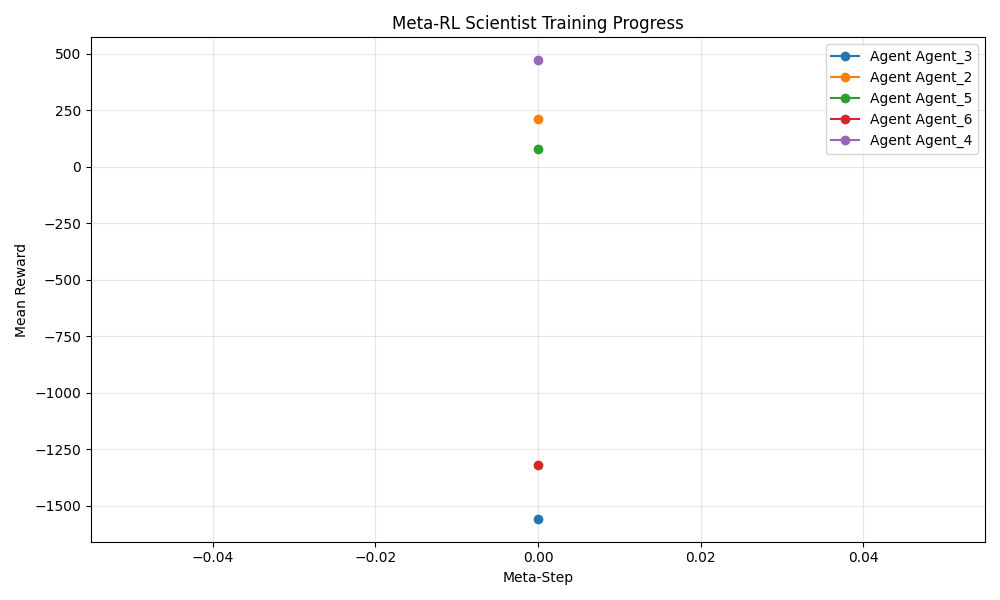
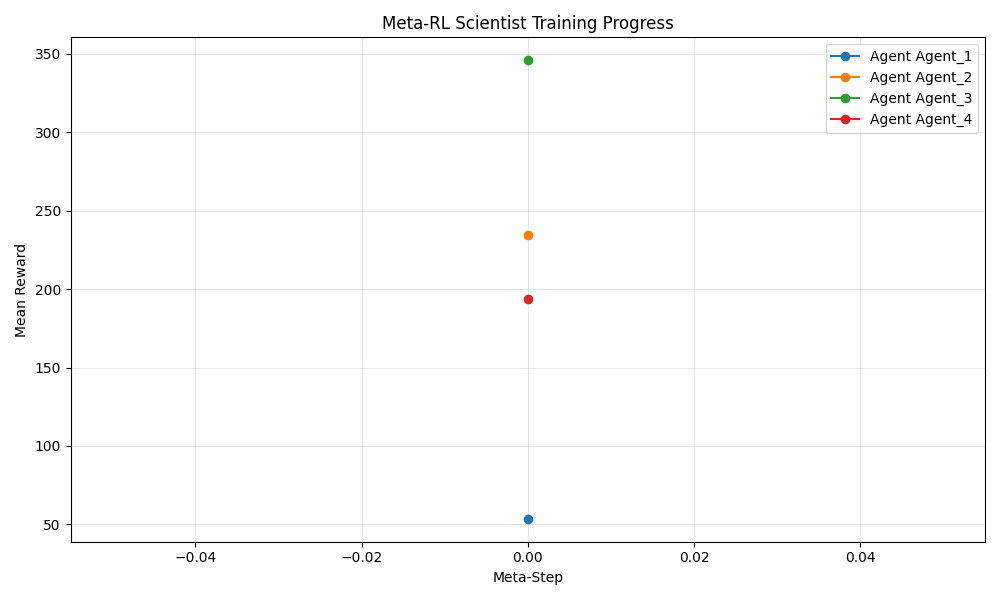
Competitive Swarm Intelligence

diff --git a/marl_scientist/main.py b/marl_scientist/main.py
@@ -78,6 +78,10 @@ def main():
     start_time = time.time()
     last_vision_time = time.time()
     
+    # [NEW] Competitive Dynamics
+    population_reward_history = [] 
+    reward_window = 20 # Mean over last 20 experiments
+    
     try:
         log.info("Starting Event Loop...")
         
@@ -92,8 +96,19 @@ def main():
                     log.info(f"[Event] Experiment completed for {aid}. Reward: {res.final_mean_reward:.1f}")
                     
                     if res:
+                        # [NEW] Relative Scaling Logic
+                        population_reward_history.append(rewards[aid])
+                        if len(population_reward_history) > reward_window:
+                            population_reward_history.pop(0)
+                        
+                        pop_mean = sum(population_reward_history) / len(population_reward_history)
+                        relative_reward = rewards[aid] - pop_mean
+                        
+                        log.info(f"  - Meta-Reward: {rewards[aid]:.2f} (Rel: {relative_reward:+.2f})")
+                        
                         # Update Agent
                         if aid in agents:
+                            # We update with RELATIVE reward to drive competition
                             agents[aid].update_knowledge(res)
                             monitor.check_safety(res)
                             
@@ -103,6 +118,17 @@ def main():
                     # Mark Free
                     agent_status[aid] = "IDLE"
                     global_completions += 1
+                    
+                    # [NEW] Weight Harvesting Trigger
+                    if global_completions % 5 == 0 and len(agents) > 1:
+                        # Find Global Best Agent (by recent mean)
+                        best_aid = max(agents.keys(), key=lambda x: history.get(x, [-float('inf')])[-1])
+                        # Find Worst Agent
+                        worst_aid = min(agents.keys(), key=lambda x: history.get(x, [float('inf')])[-1])
+                        
+                        if best_aid != worst_aid:
+                            log.info(f"[Competitive] {worst_aid} is harvesting insights from {best_aid}...")
+                            agents[worst_aid].harvest_weights(agents[best_aid].brain, tau=0.1)
                 
                 # Update Dashboard immediately on new data
                 export_dashboard_data(list(agents.values()), global_completions)
@@ -128,17 +154,42 @@ def main():
                 log.info(f"[Scaling] All agents busy ({busy_count}/{max_workers}). Expansion triggered!")
                 spawn_agent(total_agents + 1)
                 
-            # D. Job Submission
+            # C. Organic Scaling Logic
+            # ... (Scaling logic stays same, checking available slots)
+            
+            # [NEW] Priority Scheduling Logic
+            # We only submit if Lab has slots
+            busy_count = sum(1 for s in agent_status.values() if s == "BUSY")
+            max_workers = lab.executor._max_workers
+            
+            # 1. Collect Proposals from IDLE agents into a priority buffer
+            proposal_buffer = [] # (priority, aid, config)
             for aid, agent in agents.items():
                 if agent_status[aid] == "IDLE":
-                    # Propose
+                    # Priority = -RecentMeanReward (higher reward -> lower priority value -> schedules first)
+                    recent_perf = history.get(aid, [0.0])[-1]
+                    priority = -recent_perf 
+                    
                     obs = lab.get_observation()
                     config = agent.propose_experiment(obs)
-                    
-                    log.info(f"[Dispatch] {aid} -> {config.env_id} ({config.algorithm}) for 30k steps")
+                    proposal_buffer.append((priority, aid, config))
+                    agent_status[aid] = "QUEUED" # Intermediate state
+            
+            # Sort buffer by priority
+            proposal_buffer.sort(key=lambda x: x[0])
+            
+            # 2. Dispatch from buffer to Lab as long as slots are open
+            for _, aid, config in proposal_buffer:
+                if busy_count < max_workers:
+                    log.info(f"[Dispatch] {aid} (Prio: {-priority:.1f}) -> {config.env_id} for 30k steps")
                     lab.submit_experiment(aid, config)
-                    
                     agent_status[aid] = "BUSY"
+                    busy_count += 1
+                else:
+                    # Put back to IDLE so we can re-evaluate priority next tick
+                    agent_status[aid] = "IDLE"
+            
+            # ... (Periodic Vision Analysis logic stays same)
             
             # E. Periodic Vision Analysis (every 60s)
             if time.time() - last_vision_time > 60:

diff --git a/marl_scientist/agents/neural_researcher.py b/marl_scientist/agents/neural_researcher.py
@@ -186,6 +186,18 @@ class NeuralResearcherAgent(Researcher):
             paper = self.knowledge_store.synthesize_new_paper(result, self.agent_id)
             self.knowledge_store.add_paper(paper)
 
+    def harvest_weights(self, competitor_brain: MetaBrain, tau: float = 0.1):
+        """
+        Soft-copy weights from a successful competitor.
+        L_new = (1 - tau) * L_old + tau * L_competitor
+        """
+        with torch.no_grad():
+            for target_param, source_param in zip(self.brain.parameters(), competitor_brain.parameters()):
+                target_param.data.copy_(
+                    target_param.data * (1.0 - tau) + source_param.data * tau
+                )
+        print(f"[NeuralResearcher {self.agent_id}] Harvested weights from competitor (tau={tau})")
+
     def _get_knowledge_embedding(self, observation: Observation) -> np.ndarray:
         """
         Fetches the top paper embedding from the knowledge store.

diff --git a/README.md b/README.md
@@ -86,8 +86,8 @@ Drop `.txt` or `.md` files into `knowledge/`. The **Async Watcher** will instant
 - [x] Long-Term Episodic Memory
 - [x] Hierarchical Decision-Making
 - [x] Multi-Task Learning Scenarios
-- [ ] Self-supervised learning objectives for Brain Pre-Training
 - [ ] Multi-Agent Competitive Meta-Training (Self-Play)
+- [ ] Self-supervised learning objectives for Brain Pre-Training
 - [ ] Dynamic Neural Architecture Synthesis
 
 
